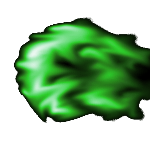
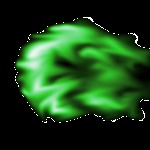
Fixing up direcitons on various fireballs. Doing some trig with the aimed fireball. Also fireblooms are temporarily limited to a single projectile.

diff --git a/items.py b/items.py
@@ -80,10 +80,12 @@ class Fireball(pygame.sprite.Sprite):
         self.fireball_speed = fireball_speed
         self.direction = direction
         if type(owner) == snakeclass.Snake:
-            self.image = pygame.image.load('assets/images/green-fireball.png')
+            self.image = pygame.image.load('assets/images/green-fireball.png').convert()
         else:
-            self.image = pygame.image.load('assets/images/fireball.png')
+            self.image = pygame.image.load('assets/images/fireball.png').convert()
         self.image.set_colorkey(self.image.get_at((0,0)))
+        if direction == RIGHT:
+            self.image = pygame.transform.rotate(self.image,180)
         self.rect = self.image.get_rect()
         self.rect.topleft = origin
         self.duration = 5
@@ -116,9 +118,14 @@ class AimedFireball(Fireball):
     def __init__(self, origin, direction, aimed_at):
         Fireball.__init__(self, origin, direction, 0, 0)
         self.aimed_at = aimed_at
-        self.dest = aimed_at.rect.copy()
+        dirx = aimed_at.rect.x - self.rect.x
+        if dirx == 0: dirx = 1
+        diry = aimed_at.rect.y - self.rect.y
+        if diry == 0: diry = 1
+        self.direction  = (1.00001 * diry ) / dirx
         self.image = pygame.image.load('assets/images/blue-fireball.png').convert()
         self.image.set_colorkey(self.image.get_at((0,0)))
+        self.image = pygame.transform.rotate(self.image,180 + math.degrees(math.atan(self.direction)))
     def update(self):
         if self.target:
             #burn the target
@@ -129,14 +136,21 @@ class AimedFireball(Fireball):
                 self.kill()
         else:
             #fly around
-            if self.rect.x > self.dest.x:
-                self.rect.x -= 5
-            elif self.rect.x < self.dest.x:
-                self.rect.x += 5
-            if self.rect.y > self.dest.y:
-                self.rect.y -= 5
-            elif self.rect.y < self.dest.y:
-                self.rect.y += 5
+            dirx = abs(self.rect.x - self.aimed_at.rect.x)
+            if dirx == 0: dirx = 0.000001
+            diry = self.rect.y - self.aimed_at.rect.y
+            if diry == 0: diry = 0.000001
+            self.direction  = (1.00001 * diry ) / dirx
+            self.image = pygame.image.load('assets/images/blue-fireball.png').convert()
+            self.image.set_colorkey(self.image.get_at((0,0)))
+            if self.rect.x - self.aimed_at.rect.x >= 1:
+                mod = 0
+                self.direction =  -self.direction
+            else:
+                mod = 180
+            self.image = pygame.transform.rotate(self.image, mod +  math.degrees(math.atan(self.direction)))
+            self.rect.x += math.floor(5 * math.sin(self.direction))
+            self.rect.y += math.floor(5 * math.cos(self.direction))
 
 
 class FireBloom(InventoryItem):
@@ -165,7 +179,7 @@ class FireBloom(InventoryItem):
                 if self.firetimer < time.time():
                     fireball = AimedFireball(self.rect.topleft, -1, self.target)
                     projectiles.add(fireball)
-                    self.firetimer = time.time() + 0.45
+                    self.firetimer = time.time() + 40.45
             if self.endtime < time.time():
                 self.kill()
 
